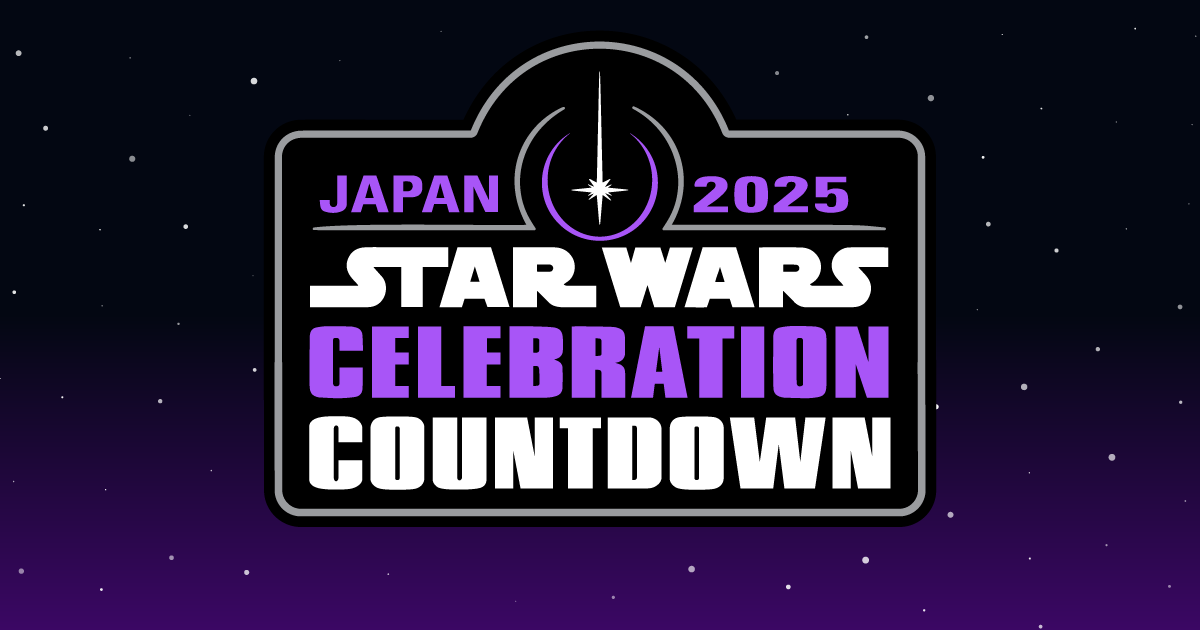
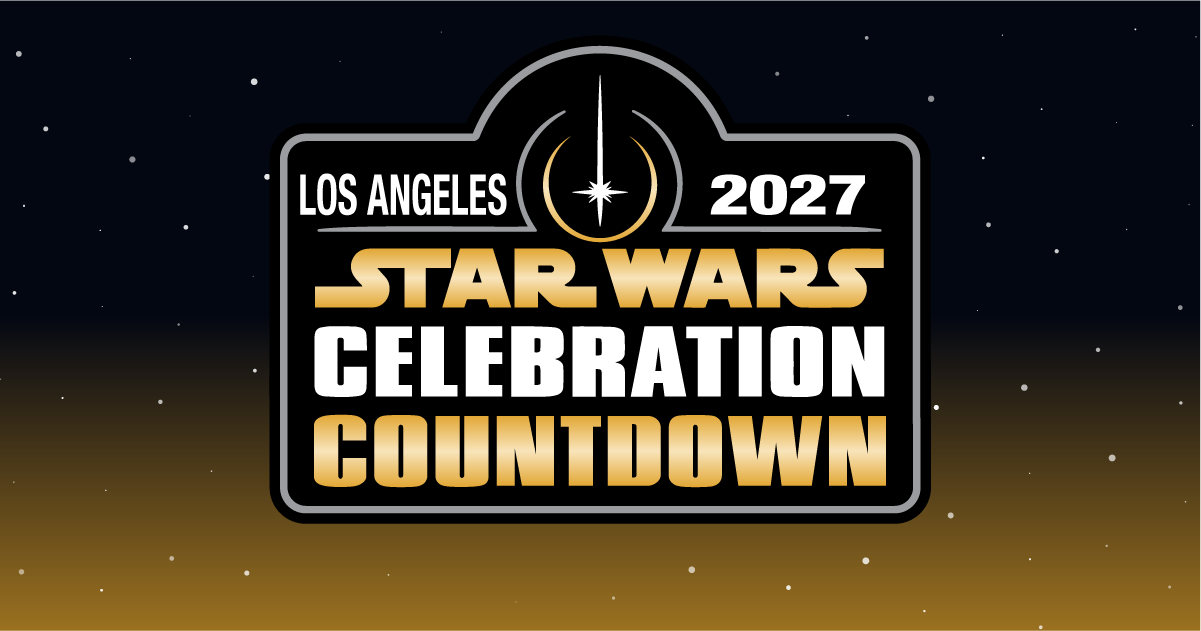
2027

diff --git a/app/(pages)/countdown/Countdown.tsx b/app/(pages)/countdown/Countdown.tsx
@@ -3,7 +3,7 @@
 import { CountdownCircleTimer } from 'react-countdown-circle-timer'
 
 // CELEBRATION START TIME
-const celebrationStartTime = new Date('2025-04-18T10:00:00+09:00').getTime()
+const celebrationStartTime = new Date('2027-04-01T10:00:00-07:00').getTime()
 
 const minuteSeconds = 60
 const hourSeconds = 3600
@@ -95,7 +95,8 @@ function CountdownCircle({ duration, initialRemainingTime, updateInterval, shoul
 	return (
 		<CountdownCircleTimer
 			{...timerProps}
-			colors={['#7e22ce', '#9333ea', '#a855f7', '#c084fc', '#d8b4fe']}
+			// colors={['#7e22ce', '#9333ea', '#a855f7', '#c084fc', '#d8b4fe']}
+			colors={['#9f7421', '#c28d28', '#d7a23d', '#deb360', '#e6c484']}
 			colorsTime={[duration, duration * 0.75, duration * 0.5, duration * 0.25, 0]}
 			trailColor="#f3e8ff"
 			duration={duration}

diff --git a/app/(pages)/globals-temp.css b/app/(pages)/globals-temp.css
@@ -2,17 +2,17 @@
 @tailwind components;
 @tailwind utilities;
 
-:root {
+/* :root {
 	--swc-purple-dark: #251833;
-	--swc-purple-base: #5b3b7d;
-	--swc-purple-light: #734b9e;
-}
+	--swc-purple-base: #9b7120;
+	--swc-purple-light: #9b7120;
+} */
 
 html {
 	@apply bg-neutral-950;
 }
 body {
-	@apply text-white bg-gradient-to-b from-neutral-950 via-neutral-950 to-purple-950;
+	@apply text-white bg-gradient-to-b from-neutral-950 via-neutral-950 to-yellow-950;
 }
 
 html {

diff --git a/app/(pages)/countdown/opengraph-image.tsx b/app/(pages)/countdown/opengraph-image.tsx
@@ -1,7 +1,8 @@
 import { ImageResponse } from 'next/og'
 
 // CELEBRATION START TIME
-const celebrationStartTime = new Date('2025-04-18T10:00:00+09:00').getTime()
+// const celebrationStartTime = new Date('2025-04-18T10:00:00+09:00').getTime()
+const celebrationStartTime = new Date('2027-04-01T10:00:00-07:00').getTime()
 const daySeconds = 86400
 
 export const runtime = 'edge'

diff --git a/app/api/og/route.tsx b/app/api/og/route.tsx
@@ -1,7 +1,8 @@
 import { ImageResponse } from 'next/og'
 
 // CELEBRATION START TIME
-const celebrationStartTime = new Date('2025-04-18T10:00:00+09:00').getTime()
+// const celebrationStartTime = new Date('2025-04-18T10:00:00+09:00').getTime()
+const celebrationStartTime = new Date('2027-04-01T10:00:00-07:00').getTime()
 const daySeconds = 86400
 
 export const runtime = 'edge'
